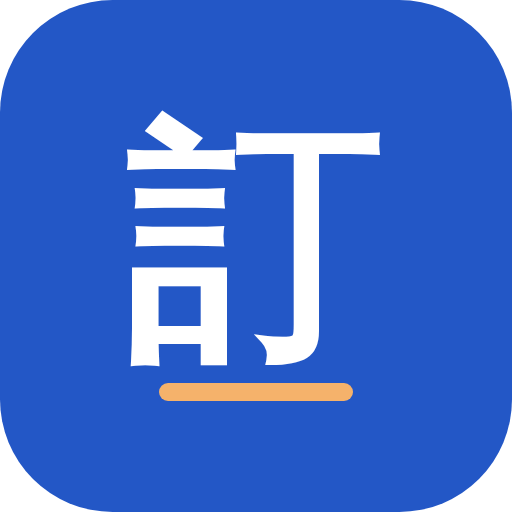
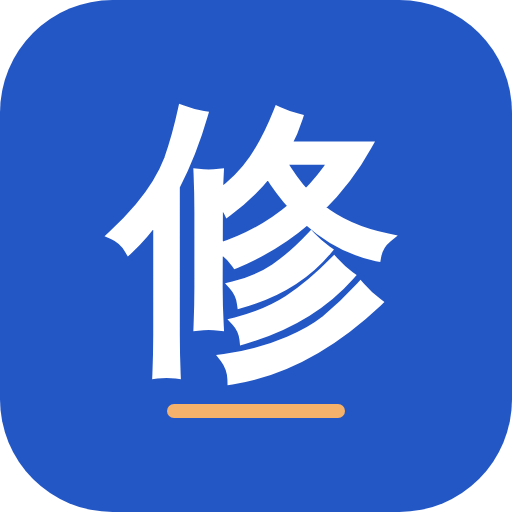
App 圖示改為「修」字
原本的圖示是訂購頁時期的「訂」字，改成符合水電報修的圖示，
並更新 Service Worker 快取版本讓新圖示生效。

Claude-Session: https://claude.ai/code/session_01TFUfkRuiP548PQ8hKbUA8n

Changed region(s): [[0.1875, 0.1875, 0.7812, 0.8438]]

diff --git a/sw.js b/sw.js
@@ -4,7 +4,7 @@
 //   - supabase-js（CDN）：先用快取，背景更新（stale-while-revalidate）。
 //   - Supabase API 與其他請求：一律不經過快取，報修一定要連網才能送出。
 // 修改要預先快取的檔案清單時，請把 CACHE_VERSION 加 1。
-const CACHE_VERSION = "v4";
+const CACHE_VERSION = "v5";
 const CACHE = "order-site-" + CACHE_VERSION;
 const CDN_HOST = "cdn.jsdelivr.net";
 
